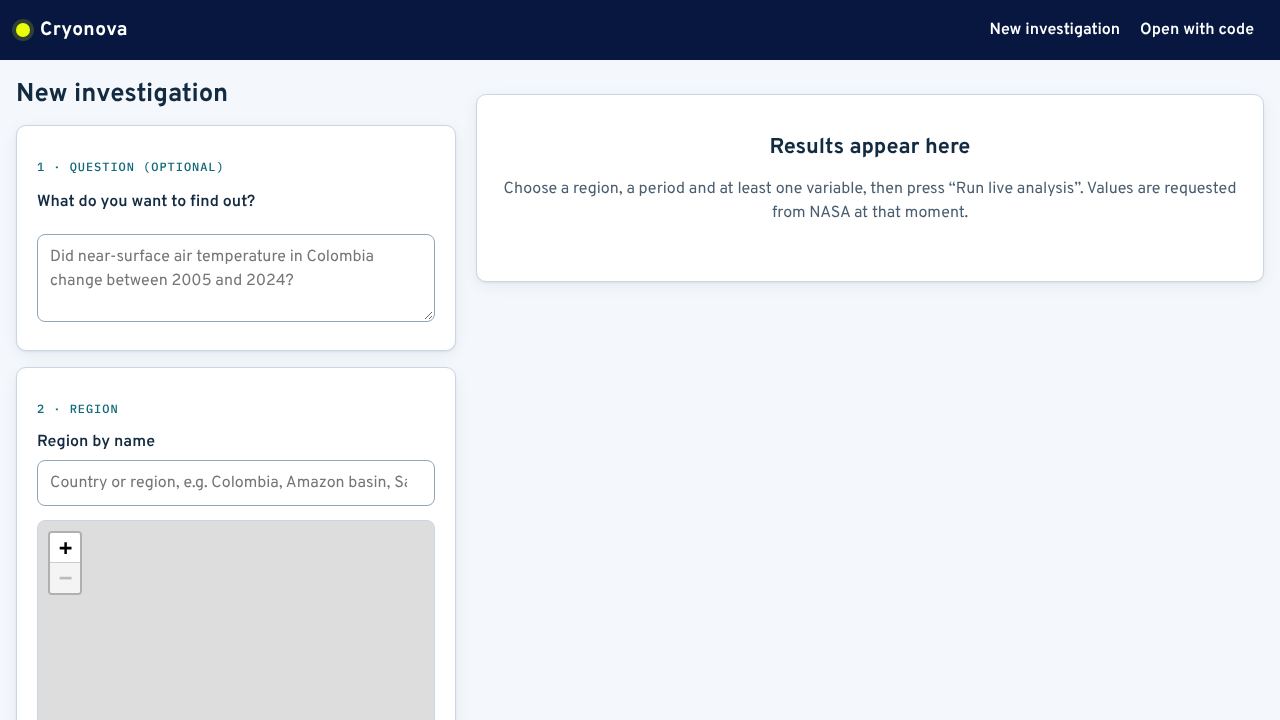
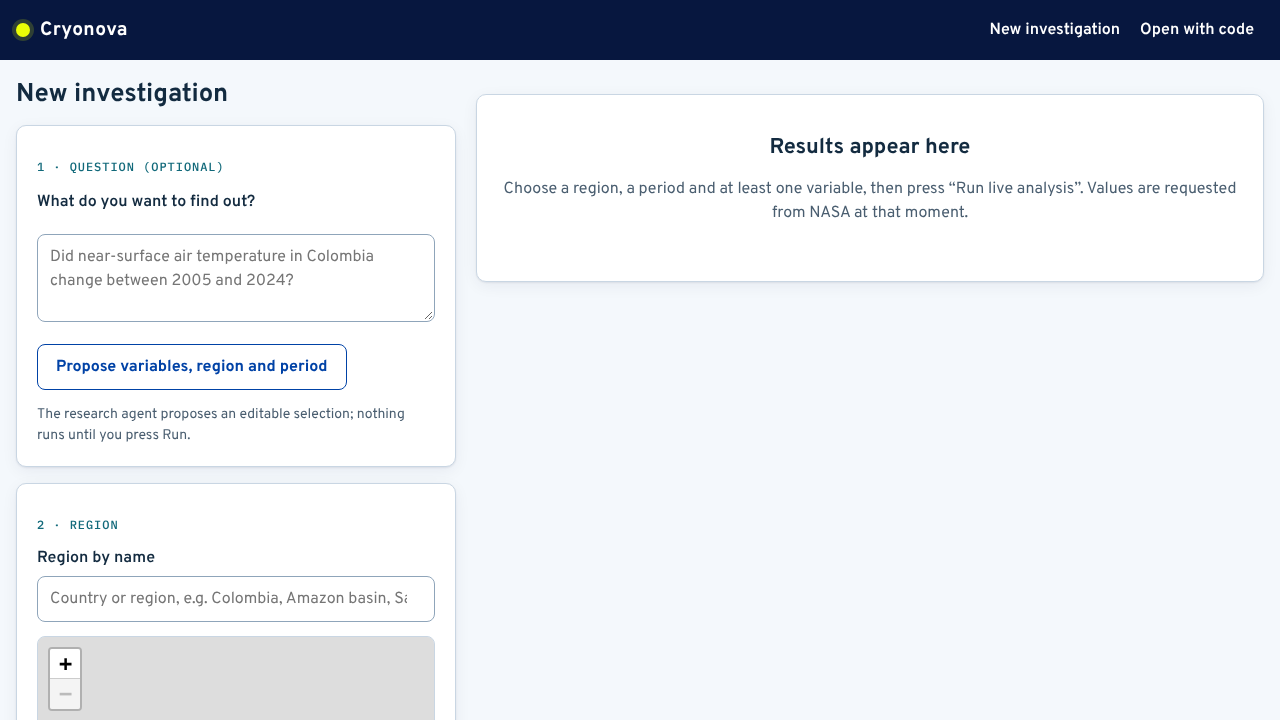
test(e2e): add guided journey from question to verified explanation
Landing question -> proposal -> live run -> explanation with checked
figures -> Spanish. Runs with LIVE_E2E=1 on desktop.

Claude-Session: https://claude.ai/code/session_01MdmBAKE8M2SCmHZVLXGeNV

Changed region(s): [[0.0, 0.55, 0.3438, 0.9472], [0.0312, 0.4583, 0.2812, 0.5194], [0.0312, 0.9778, 0.0625, 1.0]]

diff --git a/tests/e2e/journey.spec.ts b/tests/e2e/journey.spec.ts
@@ -65,3 +65,23 @@ test("keyboard users can pick a region and reach the run button", async ({ page 
   await page.getByRole("button", { name: "Apply coordinates" }).press("Enter");
   await expect(page.getByText(/Selected: Custom box/)).toBeVisible();
 });
+
+test("guided journey: question from the landing page becomes an editable proposal, a live run and a verified explanation", async ({ page }, testInfo) => {
+  test.skip(testInfo.project.name !== "desktop" || !process.env.LIVE_E2E, "Live provider journey: set LIVE_E2E=1 (desktop only).");
+  test.setTimeout(240_000);
+  await page.goto("/");
+  await page.getByLabel("Your question (English or Spanish)").fill("Did near-surface air temperature in Colombia change between 2012 and 2023?");
+  await page.getByRole("button", { name: "Start investigation" }).click();
+  await expect(page.getByTestId("proposal")).toBeVisible({ timeout: 120_000 });
+  await expect(page.getByTestId("proposal")).toContainText(/Ready to run|Lista para ejecutar/);
+  await expect(page.getByText(/Selected: Colombia/)).toBeVisible();
+  await expect(page.getByRole("button", { name: "Remove Near-surface air temperature (2 m)" }).first()).toBeVisible();
+  await page.getByTestId("run-button").click();
+  await expect(page.getByTestId("results")).toBeVisible({ timeout: 200_000 });
+  const explanation = page.getByTestId("explanation");
+  await expect(explanation).toContainText(/What the chart shows/, { timeout: 90_000 });
+  await expect(explanation).toContainText(/figures checked against the computed results/);
+  await explanation.getByRole("button", { name: "Español" }).click();
+  await expect(explanation).toContainText(/Qué muestra el gráfico/, { timeout: 90_000 });
+  await page.screenshot({ path: "docs/benchmarks/screenshots/t6-guided-desktop.png", fullPage: true });
+});
